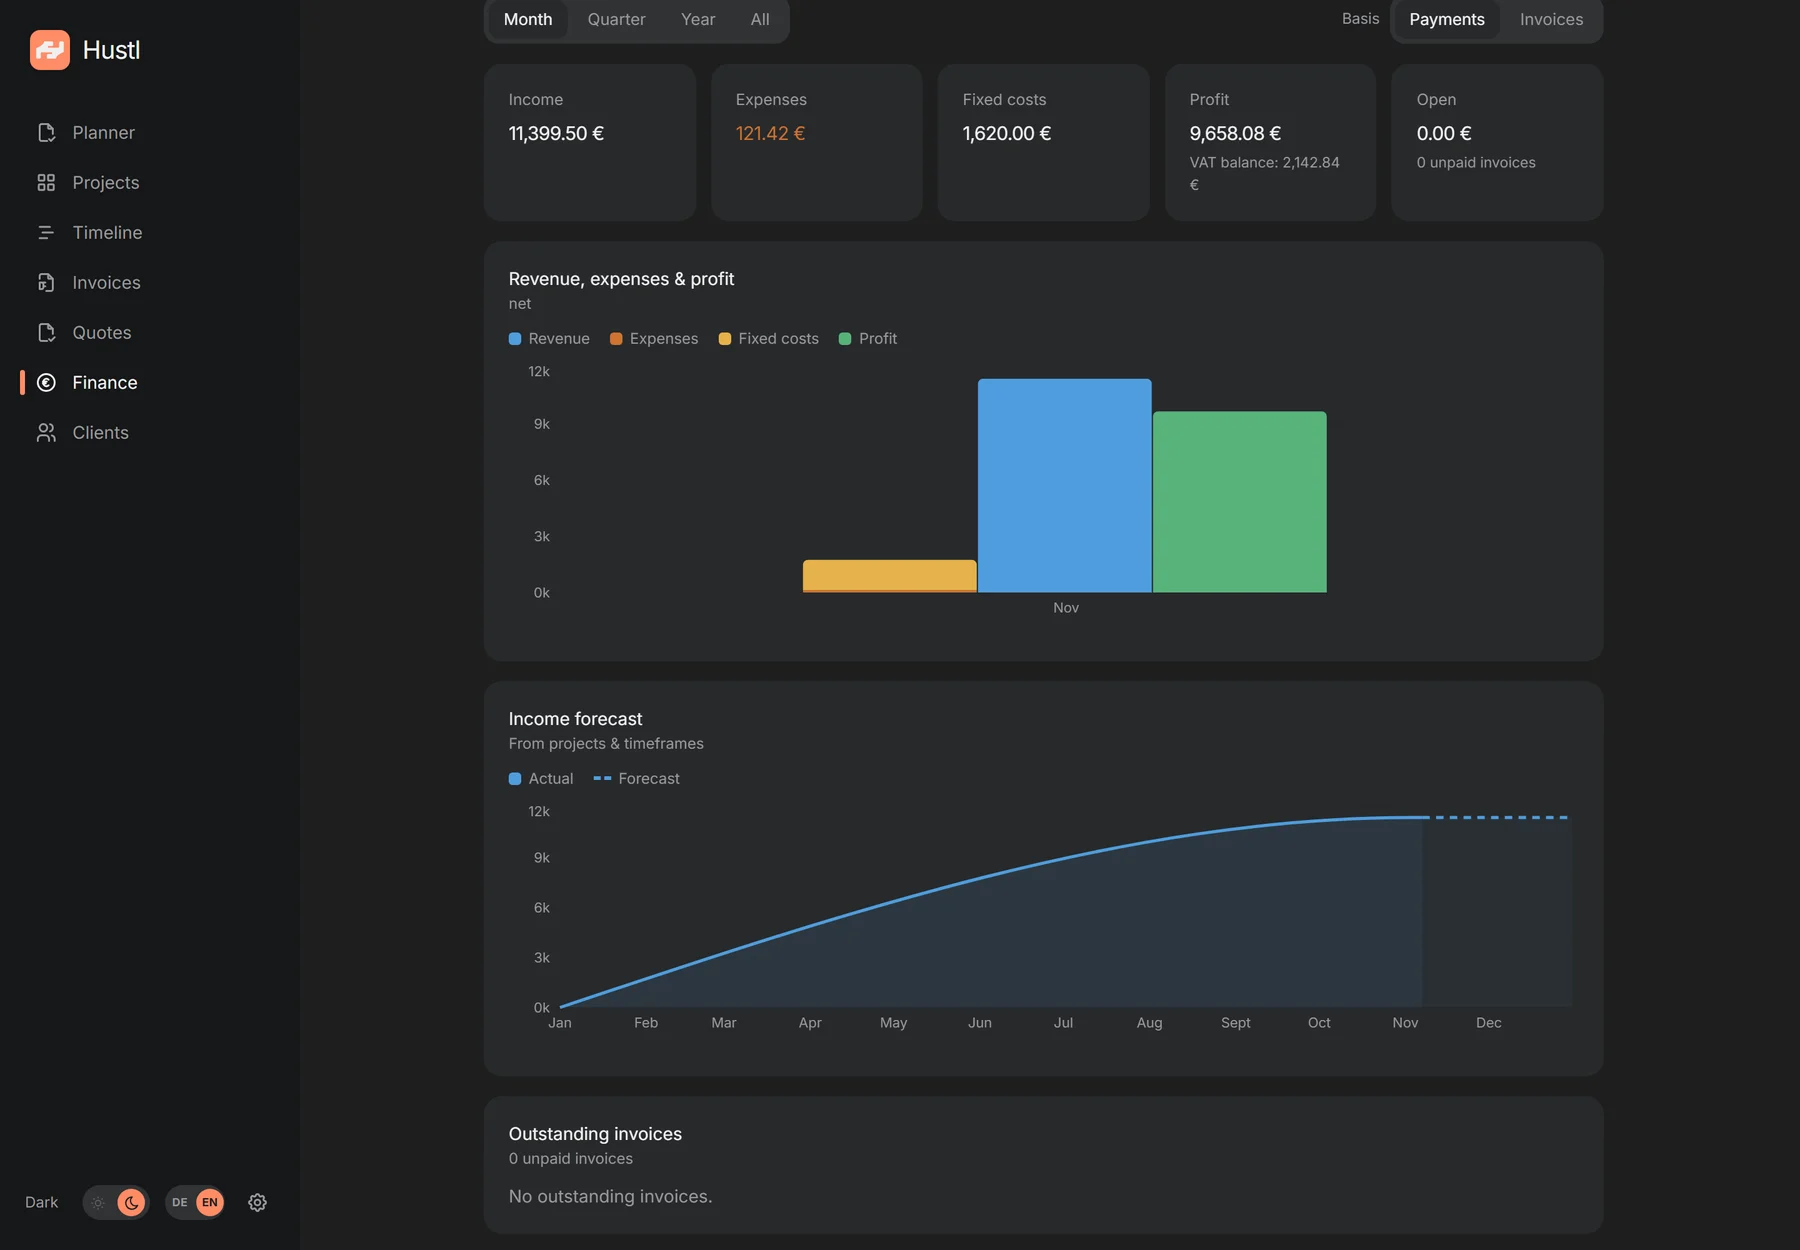
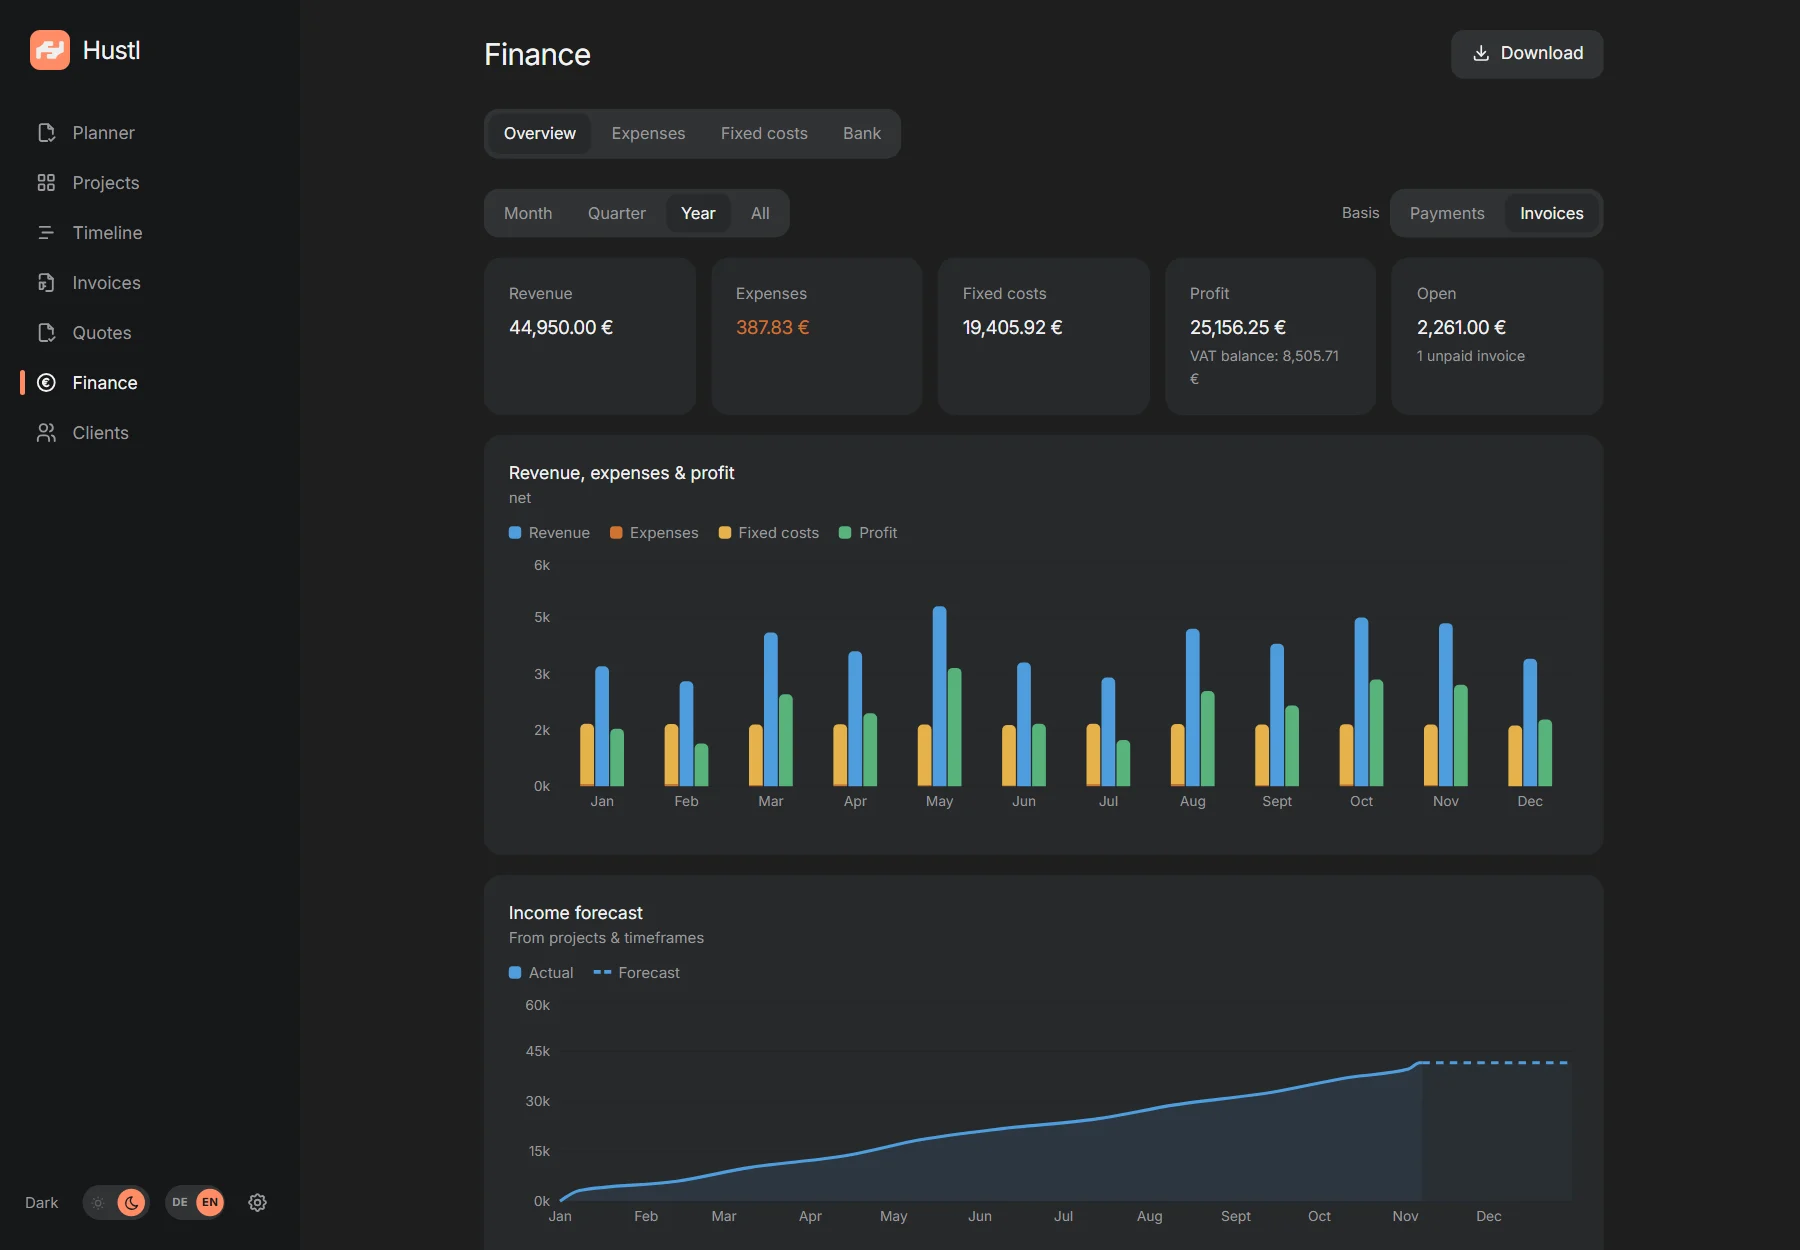
Show all months in the finance screenshots

diff --git a/site/de/index.html b/site/de/index.html
@@ -448,7 +448,7 @@
           <div class="showcase-copy">
             <span class="showcase-kicker">Finanzen</span>
             <h3>Finanzen, die du verstehst.</h3>
-            <p>Das Dashboard zeigt Einnahmen, Ausgaben und Gewinn, auf Zahlungs- oder Rechnungsbasis. Fixkosten und Belege sind schon eingerechnet, die Prognose denkt mit.</p>
+            <p>Das Dashboard zeigt Einnahmen, Ausgaben und Gewinn, auf Zahlungs- oder Rechnungsbasis. Die Jahresansicht stellt alle zwölf Monate nebeneinander, damit Saisonalität und ruhige Monate auf einen Blick sichtbar werden. Fixkosten und Belege sind schon eingerechnet, die Prognose denkt mit.</p>
             <ul class="check-list">
               <li><svg class="icon" viewBox="0 0 24 24" aria-hidden="true"><use href="#i-check"></use></svg> Monats-, Quartals- und Jahresansicht</li>
               <li><svg class="icon" viewBox="0 0 24 24" aria-hidden="true"><use href="#i-check"></use></svg> Fixkosten, Belege und offene Rechnungen</li>
@@ -462,7 +462,7 @@
                 <span class="browser-url">Finanzen</span>
                 <span class="browser-spacer" aria-hidden="true"></span>
               </div>
-              <img src="../assets/screens/finance.webp" width="1800" height="1250" alt="Monatsansicht der Finanzen in Hustl" loading="lazy">
+              <img src="../assets/screens/finance.webp" width="1800" height="1250" alt="Jahresübersicht der Finanzen mit allen zwölf Monaten in Hustl" loading="lazy">
             </div>
           </div>
         </div>
@@ -585,7 +585,7 @@
                   <span class="browser-url">Finanzen</span>
                   <span class="browser-spacer" aria-hidden="true"></span>
                 </div>
-                <img src="../assets/screens/finance.webp" width="1800" height="1250" alt="Monatsansicht der Finanzen mit Einnahmen-Prognose in Hustl" loading="lazy">
+                <img src="../assets/screens/finance.webp" width="1800" height="1250" alt="Jahresübersicht der Finanzen mit Einnahmen-Prognose in Hustl" loading="lazy">
               </div>
             </div>
             <details class="finance-details">

diff --git a/site/index.html b/site/index.html
@@ -445,7 +445,7 @@
           <div class="showcase-copy">
             <span class="showcase-kicker">Finance</span>
             <h3>Finance you can actually read.</h3>
-            <p>The dashboard shows income, expenses and profit, on a cash or invoice basis. Fixed costs and receipts are already included, and the forecast thinks ahead.</p>
+            <p>The dashboard shows income, expenses and profit, on a cash or invoice basis. The yearly view puts all twelve months side by side, so seasonality and quiet months are visible at a glance. Fixed costs and receipts are already included, and the forecast thinks ahead.</p>
             <ul class="check-list">
               <li><svg class="icon" viewBox="0 0 24 24" aria-hidden="true"><use href="#i-check"></use></svg> Month, quarter and year views</li>
               <li><svg class="icon" viewBox="0 0 24 24" aria-hidden="true"><use href="#i-check"></use></svg> Fixed costs, receipts and open invoices</li>
@@ -459,7 +459,7 @@
                 <span class="browser-url">Finance</span>
                 <span class="browser-spacer" aria-hidden="true"></span>
               </div>
-              <img src="assets/screens/finance-en.webp" width="1800" height="1250" alt="Monthly finance dashboard in Hustl" loading="lazy">
+              <img src="assets/screens/finance-en.webp" width="1800" height="1250" alt="Yearly finance overview with all twelve months in Hustl" loading="lazy">
             </div>
           </div>
         </div>
@@ -582,7 +582,7 @@
                   <span class="browser-url">Finance</span>
                   <span class="browser-spacer" aria-hidden="true"></span>
                 </div>
-                <img src="assets/screens/finance-en.webp" width="1800" height="1250" alt="Monthly finance dashboard with income forecast in Hustl" loading="lazy">
+                <img src="assets/screens/finance-en.webp" width="1800" height="1250" alt="Yearly finance overview with income forecast in Hustl" loading="lazy">
               </div>
             </div>
             <details class="finance-details">
